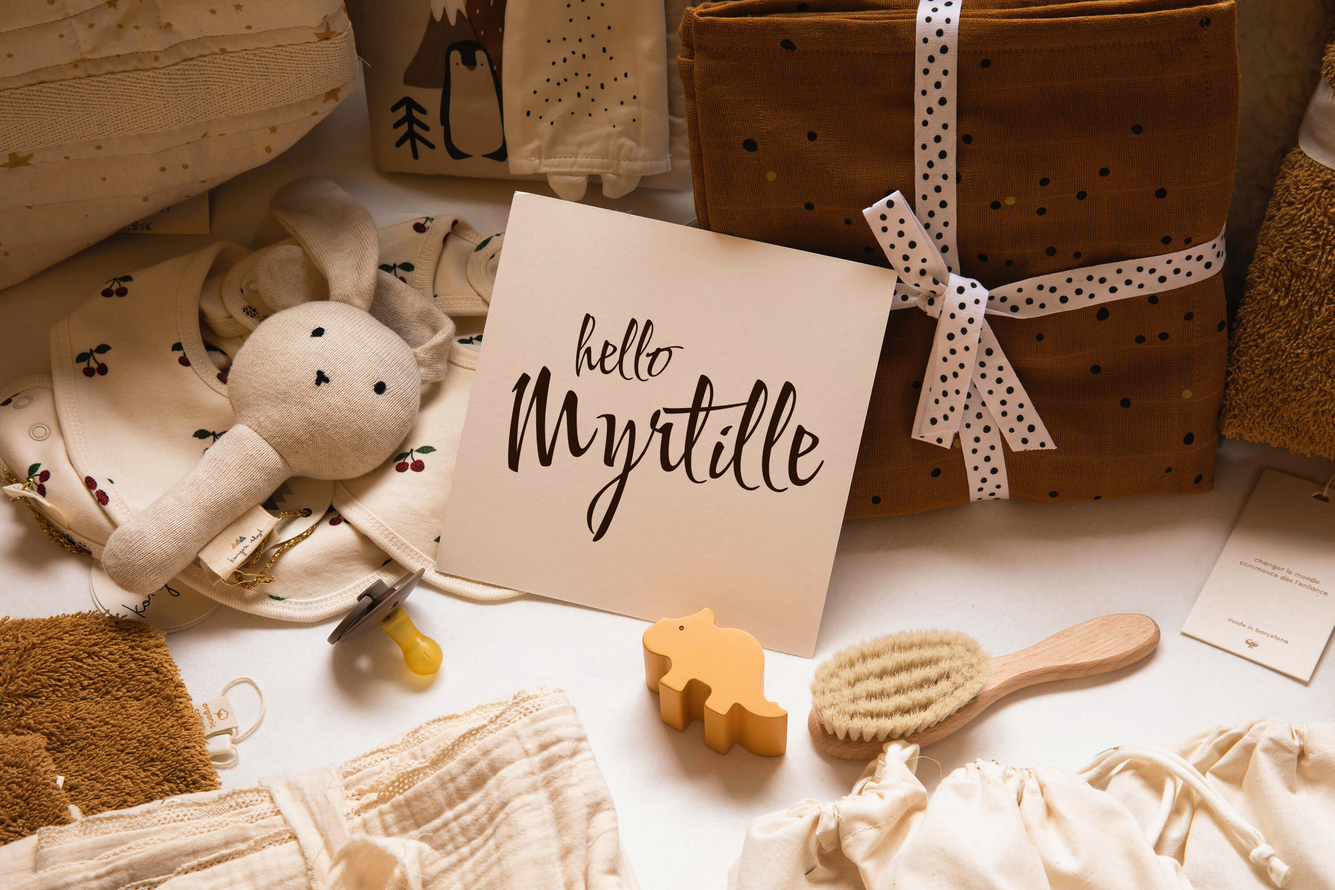
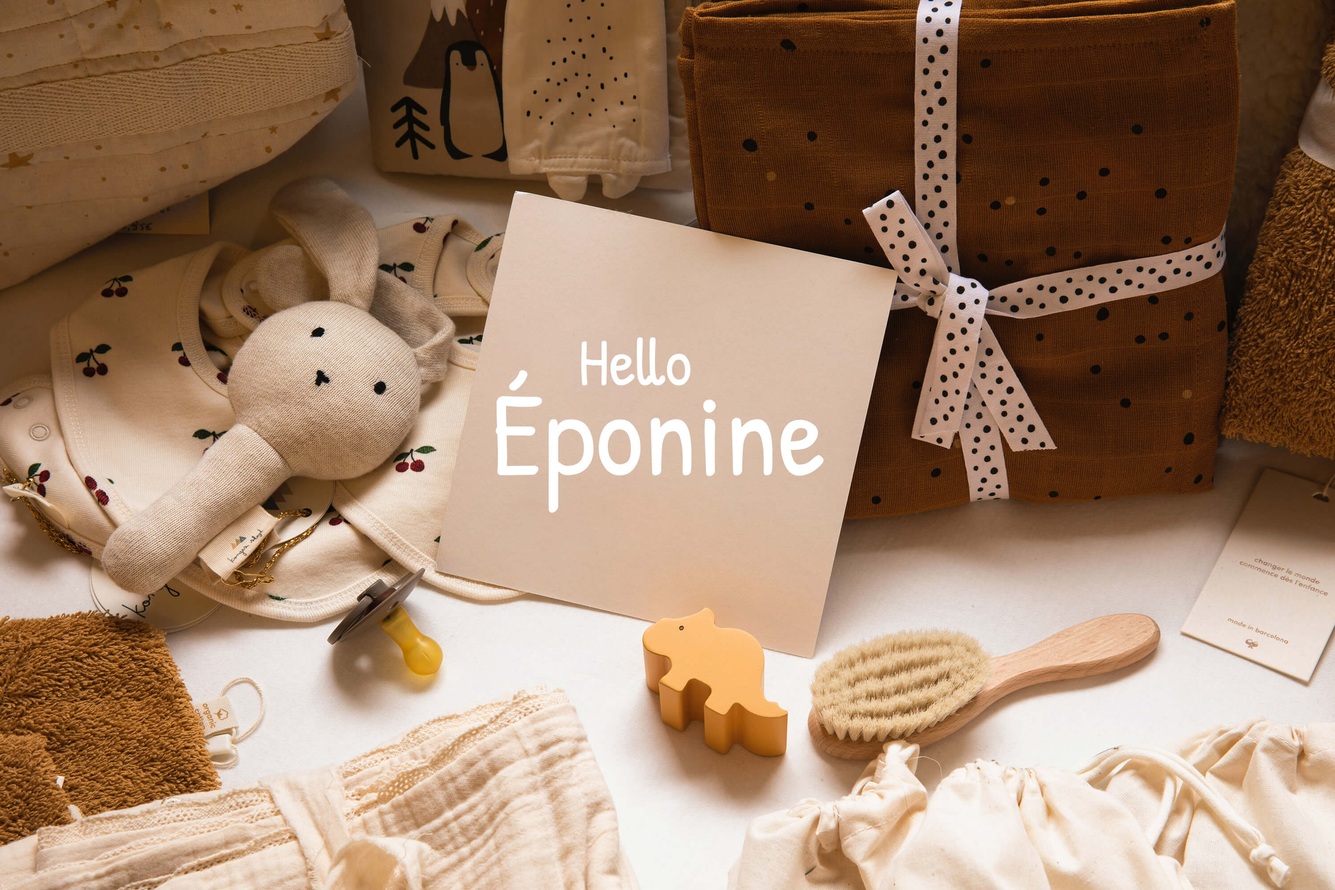
update for Eponine

Changed region(s): [[0.372, 0.341, 0.62, 0.62]]

diff --git a/audreyetsimon.fr/audreyetsimon.fr/naissance/index.html b/audreyetsimon.fr/audreyetsimon.fr/naissance/index.html
@@ -9,9 +9,12 @@
 	<title>Liste de Naissance de Myrtille</title>
 	<link rel="icon" type="image/png" sizes="32x32" href="favicon-32x32.png">
 	<link rel="icon" type="image/png" sizes="16x16" href="favicon-16x16.png">
-	<link rel="stylesheet" type="text/css" href="style.css?v2.0.4">
+	<link rel="stylesheet" type="text/css" href="style.css?v2.0.5">
     <link rel="stylesheet" type="text/css" href="style-loader.css?v1.0.0">
 	<link rel="stylesheet" type="text/css" href="style-mobile.css?v2.0.3">
+    <link rel="preconnect" href="https://fonts.googleapis.com">
+    <link rel="preconnect" href="https://fonts.gstatic.com" crossorigin>
+    <link href="https://fonts.googleapis.com/css2?family=Patrick+Hand&display=swap" rel="stylesheet">
 
     <script src="https://js.stripe.com/v3/"></script>
     <script type="text/javascript">
@@ -77,10 +80,9 @@
 <section id="liste">
 	
 	<h1>Liste de naissance</h1>
-    <p>"Pour préparer mon arrivée, mes parents ont encore quelques achats à faire. Si vous souhaitez me faire un cadeau, vous trouverez ci-dessous quelques éléments que vous pouvez m'offrir.</p>
+    <p>"Pour prendre soin de moi, mes parents ont encore quelques achats à faire. Si vous souhaitez me faire un cadeau, vous trouverez ci-dessous quelques éléments qui me feraient plaisir ou qui seraient bien utiles à mes parents !</p>
     <p>Un grand merci 😍"</p>
-    <p>Myrtille, bientôt parmi vous ...</br>
-    (c'est un nom de code bien entendu 😊)</p>
+    <p>Éponine</br></p>
 
     <div id="list-container">
     	
@@ -184,7 +186,7 @@
 
 
 <footer>
-	Fait avec ♥ par <a href="mailto:parisot.simon@gmail.com">Audrey & Simon</a> pour la petite Myrtille<br>
+	Fait avec ♥ par <a href="mailto:parisot.simon@gmail.com">Audrey & Simon</a> pour la petite Éponine<br>
 </footer>
 
 </body>

diff --git a/audreyetsimon.fr/audreyetsimon.fr/naissance/style.css b/audreyetsimon.fr/audreyetsimon.fr/naissance/style.css
@@ -33,7 +33,7 @@ section {
 
 }
 
-section > h1 { font: 4.5rem "Satisfy", cursive, sans-serif; margin: 0 0 20px 0; }
+section > h1 { font: 4.5rem "Patrick Hand", cursive, sans-serif; margin: 0 0 20px 0; }
 section h2 { font: 1.6rem "Athletics", sans-serif; font-weight: bold; margin: 0.6rem 0 0 0; }
 
 .btnLg { 
